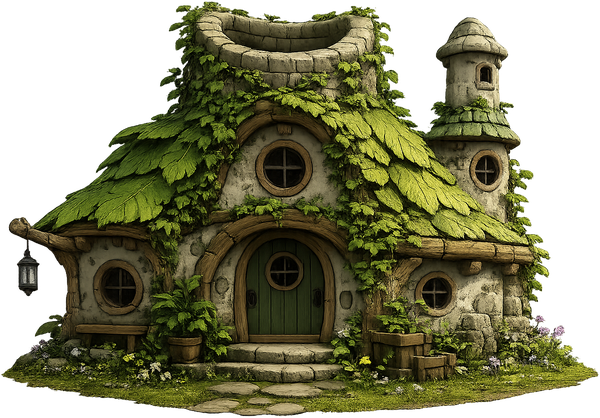
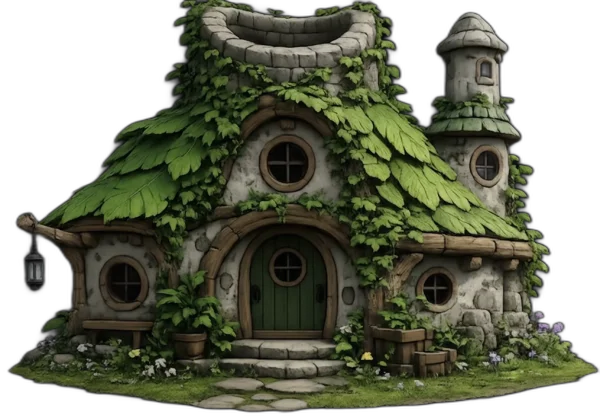
Ajustes casa

diff --git a/domains/casa_duende/entity.py b/domains/casa_duende/entity.py
@@ -12,8 +12,8 @@ class CasaDuende:
         self.x = 140
         self.y = 190
         self.escala = 0.13
-        self.escala_x = 5.90
-        self.escala_y = 5.85
+        self.escala_x = 6.0
+        self.escala_y = 6.0
         self.offset_casa_y = 0
         self.offset_casa_x = -6
 
